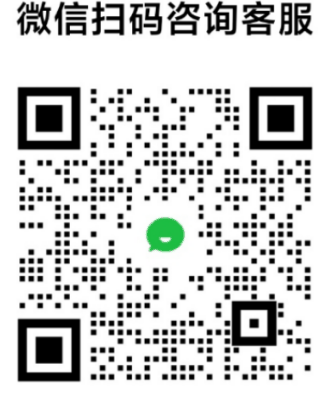
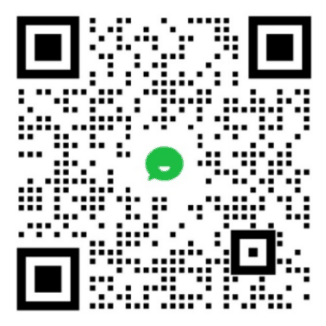
feat: 主页去掉视频课程，期货实盘二维码去掉文字，页脚补充项目链接
- 期货实盘二维码裁掉顶部“微信扫码咨询客服”文字，与证券实盘二维码等大；裁剪前后解码结果一致
- 删除视频课程区块与导航入口，旧链接 #/course 跳到页首
- 页脚新增 AKShare、AKQuant、AKTools、AKHub、GitHub 链接
- 新增 robots.txt 与 sitemap.xml

diff --git a/index.html b/index.html
@@ -21,7 +21,7 @@
     // 兼容旧站的 hash 路由，例如 https://akfamily.xyz/#/community
     (function () {
       var map = { "#/data": "#projects", "#/quant": "#projects", "#/trade": "#trade",
-                  "#/course": "#courses", "#/community": "#community", "#/": "#top" };
+                  "#/course": "#top", "#/community": "#community", "#/": "#top" };
       var target = map[location.hash];
       if (!target) { return; }
       history.replaceState(null, "", target === "#top" ? location.pathname : target);
@@ -39,7 +39,6 @@
       <nav>
         <a href="#projects">开源项目</a>
         <a href="#trade" class="hl">实盘交易</a>
-        <a href="#courses">视频课程</a>
         <a href="#community">学习社区</a>
         <a href="https://github.com/akfamily" target="_blank" rel="noopener">GitHub</a>
       </nav>
@@ -108,7 +107,7 @@
                 <figcaption><b>证券实盘</b>股票、可转债、ETF 期权、两融的实盘 API 对接与量化定制</figcaption>
               </figure>
               <figure>
-                <img src="assets/img/trade-futures-qrcode.png" width="160" height="193" alt="期货实盘咨询微信二维码" loading="lazy">
+                <img src="assets/img/trade-futures-qrcode.png" width="160" height="160" alt="期货实盘咨询微信二维码" loading="lazy">
                 <figcaption><b>期货实盘</b>量化咨询、软件指导、策略编写与托管加速</figcaption>
               </figure>
             </div>
@@ -122,20 +121,6 @@
             <p class="links"><a class="btn" href="https://qmfquant.com" target="_blank" rel="noopener sponsored">立即体验</a></p>
           </article>
         </div>
-      </div>
-    </section>
-
-    <section id="courses" class="section">
-      <div class="wrap">
-        <h2>视频课程</h2>
-        <ul class="grid courses">
-          <li><a href="https://app3rqjh1z21630.h5.xiaoeknow.com/p/course/column/p_63745e95e4b01126eaa6492f" target="_blank" rel="noopener">《AKShare-初阶-实战应用》</a></li>
-          <li><a href="https://app3rqjh1z21630.h5.xiaoeknow.com/p/course/column/p_6341071ae4b0eca59c3a827d" target="_blank" rel="noopener">《AKShare-初阶-使用教学（第一期）》</a></li>
-          <li><a href="https://app3rqjh1z21630.h5.xiaoeknow.com/p/course/column/p_63621554e4b083231ec7db9f" target="_blank" rel="noopener">《AKShare-源码解析》</a></li>
-          <li><a href="https://app3rqjh1z21630.h5.xiaoeknow.com/p/course/column/p_66dd2c90e4b023c0611e36cb" target="_blank" rel="noopener">《PyBroker-入门及实战》</a></li>
-          <li><a href="https://app3rqjh1z21630.h5.xiaoeknow.com/p/course/column/p_673dfc2ae4b0694c950396f7" target="_blank" rel="noopener">《PyBroker-进阶及实战》</a></li>
-          <li><a href="https://app3rqjh1z21630.h5.xiaoeknow.com/p/course/column/p_63623e37e4b0276efeaac173" target="_blank" rel="noopener">《开源项目巡礼（第一期）》</a></li>
-        </ul>
       </div>
     </section>
 
@@ -176,8 +161,9 @@
 
   <footer class="footer">
     <div class="wrap">
+      <p class="footer-links"><a href="https://akshare.akfamily.xyz/" target="_blank" rel="noopener">AKShare</a><a href="https://akquant.akfamily.xyz/" target="_blank" rel="noopener">AKQuant</a><a href="https://aktools.akfamily.xyz/" target="_blank" rel="noopener">AKTools</a><a href="https://akhub.akfamily.xyz/" target="_blank" rel="noopener">AKHub</a><a href="https://github.com/akfamily" target="_blank" rel="noopener">GitHub</a></p>
       <p>友情链接：<a href="https://qmfquant.com" target="_blank" rel="noopener">期魔方</a></p>
-      <p>© 2019–<span id="year">2026</span> AKFamily · <a href="https://github.com/akfamily" target="_blank" rel="noopener">GitHub</a></p>
+      <p>© 2019–<span id="year">2026</span> AKFamily</p>
       <p class="disclaimer">本站所列项目均为开源软件，仅供学术研究与学习交流，不构成任何投资建议。</p>
     </div>
   </footer>

diff --git a/assets/style.css b/assets/style.css
@@ -100,13 +100,6 @@ img { max-width: 100%; height: auto; }
 }
 .btn:hover { text-decoration: none; opacity: 0.9; }
 
-.courses { list-style: none; padding: 0; margin: 0; grid-template-columns: repeat(3, 1fr); }
-.courses a {
-  display: block; height: 100%; padding: 20px 24px;
-  border: 1px solid var(--line); border-radius: var(--radius); color: var(--text);
-}
-.courses a:hover { border-color: var(--brand); text-decoration: none; color: var(--brand); }
-
 .qr { align-items: center; text-align: center; }
 .qr img { margin: 16px 0; }
 .qr p { color: var(--muted); font-size: 14px; }
@@ -125,10 +118,11 @@ img { max-width: 100%; height: auto; }
 }
 .footer p { margin: 4px 0; }
 .footer a { color: var(--muted); }
+.footer-links { display: flex; justify-content: center; flex-wrap: wrap; gap: 4px 20px; }
 .disclaimer { font-size: 12px; }
 
 @media (max-width: 860px) {
-  .cards, .two, .three, .courses { grid-template-columns: 1fr; }
+  .cards, .two, .three { grid-template-columns: 1fr; }
   .nav nav { gap: 14px; }
   .nav nav a:last-child { display: none; }
   .hero { padding: 56px 0 48px; }
